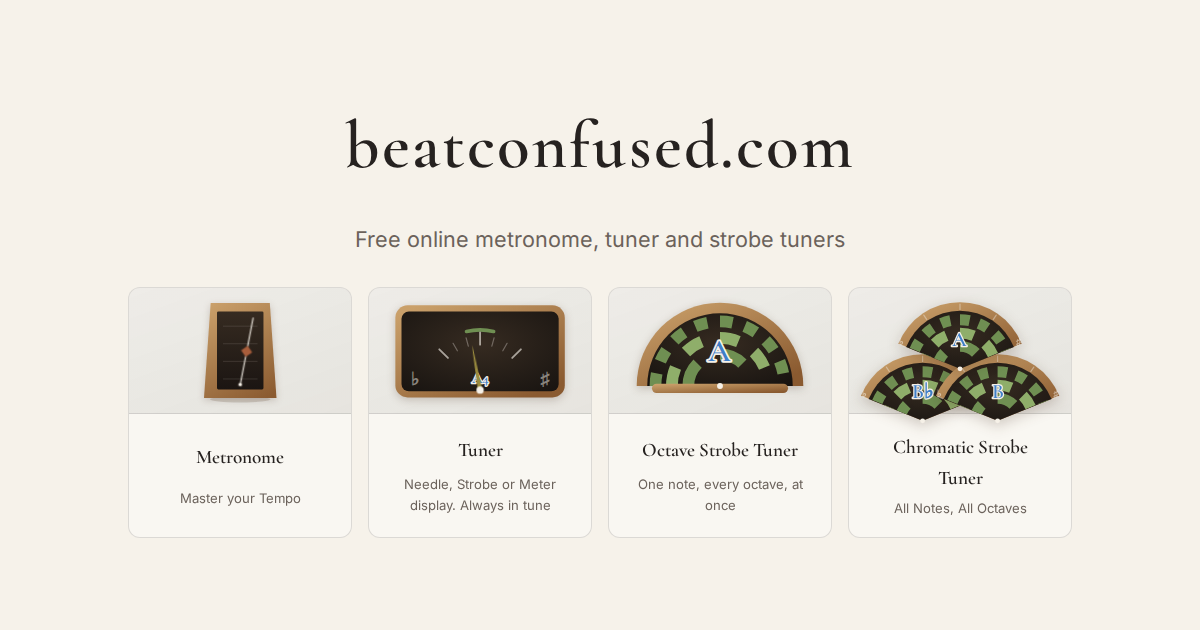
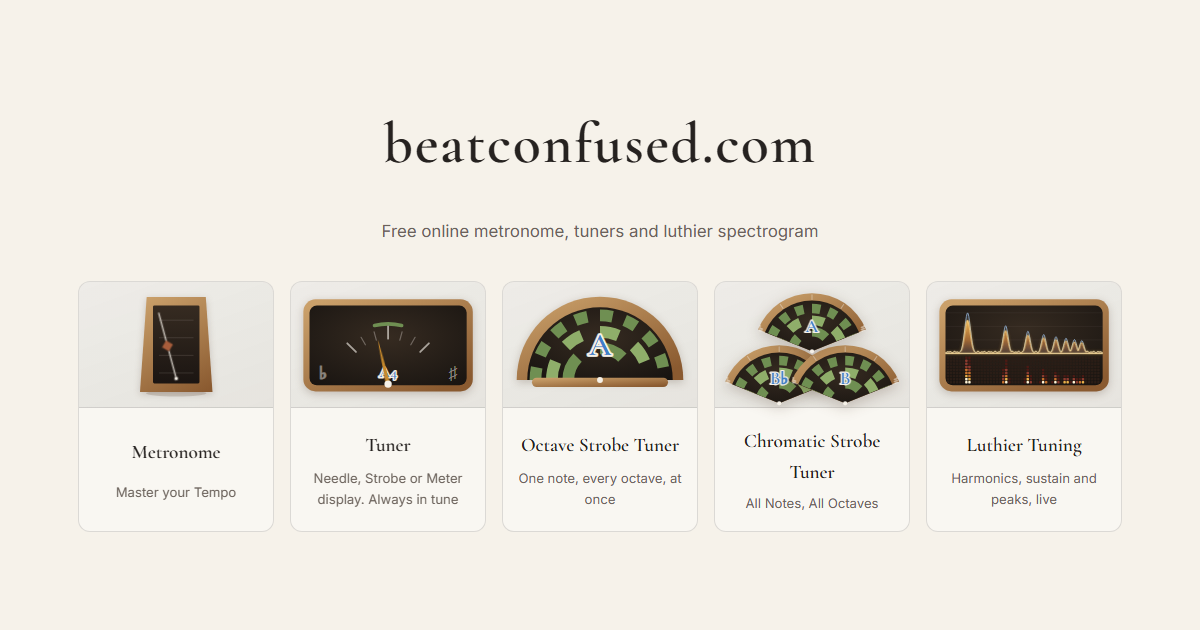
Re-render og-image with the Luthier Tuning card
The shared social preview now shows all five tool cards in one row,
with the tagline "Free online metronome, tuners and luthier
spectrogram". og:image:alt updated to match on every page.

diff --git a/index.html b/index.html
@@ -30,7 +30,7 @@
   <meta property="og:image" content="https://beatconfused.com/og-image.png" />
   <meta property="og:image:width" content="1200" />
   <meta property="og:image:height" content="630" />
-  <meta property="og:image:alt" content="BeatConfused: free online metronome, tuner and strobe tuners" />
+  <meta property="og:image:alt" content="BeatConfused: free online metronome, tuners and spectrogram" />
   <meta property="og:site_name" content="BeatConfused" />
   <meta name="twitter:card" content="summary_large_image" />
   <meta name="twitter:image" content="https://beatconfused.com/og-image.png" />

diff --git a/metronome/index.html b/metronome/index.html
@@ -30,7 +30,7 @@
   <meta property="og:image" content="https://beatconfused.com/og-image.png" />
   <meta property="og:image:width" content="1200" />
   <meta property="og:image:height" content="630" />
-  <meta property="og:image:alt" content="BeatConfused: free online metronome, tuner and strobe tuners" />
+  <meta property="og:image:alt" content="BeatConfused: free online metronome, tuners and spectrogram" />
   <meta property="og:site_name" content="BeatConfused" />
   <meta name="twitter:card" content="summary_large_image" />
   <meta name="twitter:image" content="https://beatconfused.com/og-image.png" />

diff --git a/multistrobe/index.html b/multistrobe/index.html
@@ -30,7 +30,7 @@
   <meta property="og:image" content="https://beatconfused.com/og-image.png" />
   <meta property="og:image:width" content="1200" />
   <meta property="og:image:height" content="630" />
-  <meta property="og:image:alt" content="BeatConfused: free online metronome, tuner and strobe tuners" />
+  <meta property="og:image:alt" content="BeatConfused: free online metronome, tuners and spectrogram" />
   <meta property="og:site_name" content="BeatConfused" />
   <meta name="twitter:card" content="summary_large_image" />
   <meta name="twitter:image" content="https://beatconfused.com/og-image.png" />

diff --git a/strobetuner/index.html b/strobetuner/index.html
@@ -30,7 +30,7 @@
   <meta property="og:image" content="https://beatconfused.com/og-image.png" />
   <meta property="og:image:width" content="1200" />
   <meta property="og:image:height" content="630" />
-  <meta property="og:image:alt" content="BeatConfused: free online metronome, tuner and strobe tuners" />
+  <meta property="og:image:alt" content="BeatConfused: free online metronome, tuners and spectrogram" />
   <meta property="og:site_name" content="BeatConfused" />
   <meta name="twitter:card" content="summary_large_image" />
   <meta name="twitter:image" content="https://beatconfused.com/og-image.png" />

diff --git a/tuner/index.html b/tuner/index.html
@@ -30,7 +30,7 @@
   <meta property="og:image" content="https://beatconfused.com/og-image.png" />
   <meta property="og:image:width" content="1200" />
   <meta property="og:image:height" content="630" />
-  <meta property="og:image:alt" content="BeatConfused: free online metronome, tuner and strobe tuners" />
+  <meta property="og:image:alt" content="BeatConfused: free online metronome, tuners and spectrogram" />
   <meta property="og:site_name" content="BeatConfused" />
   <meta name="twitter:card" content="summary_large_image" />
   <meta name="twitter:image" content="https://beatconfused.com/og-image.png" />
